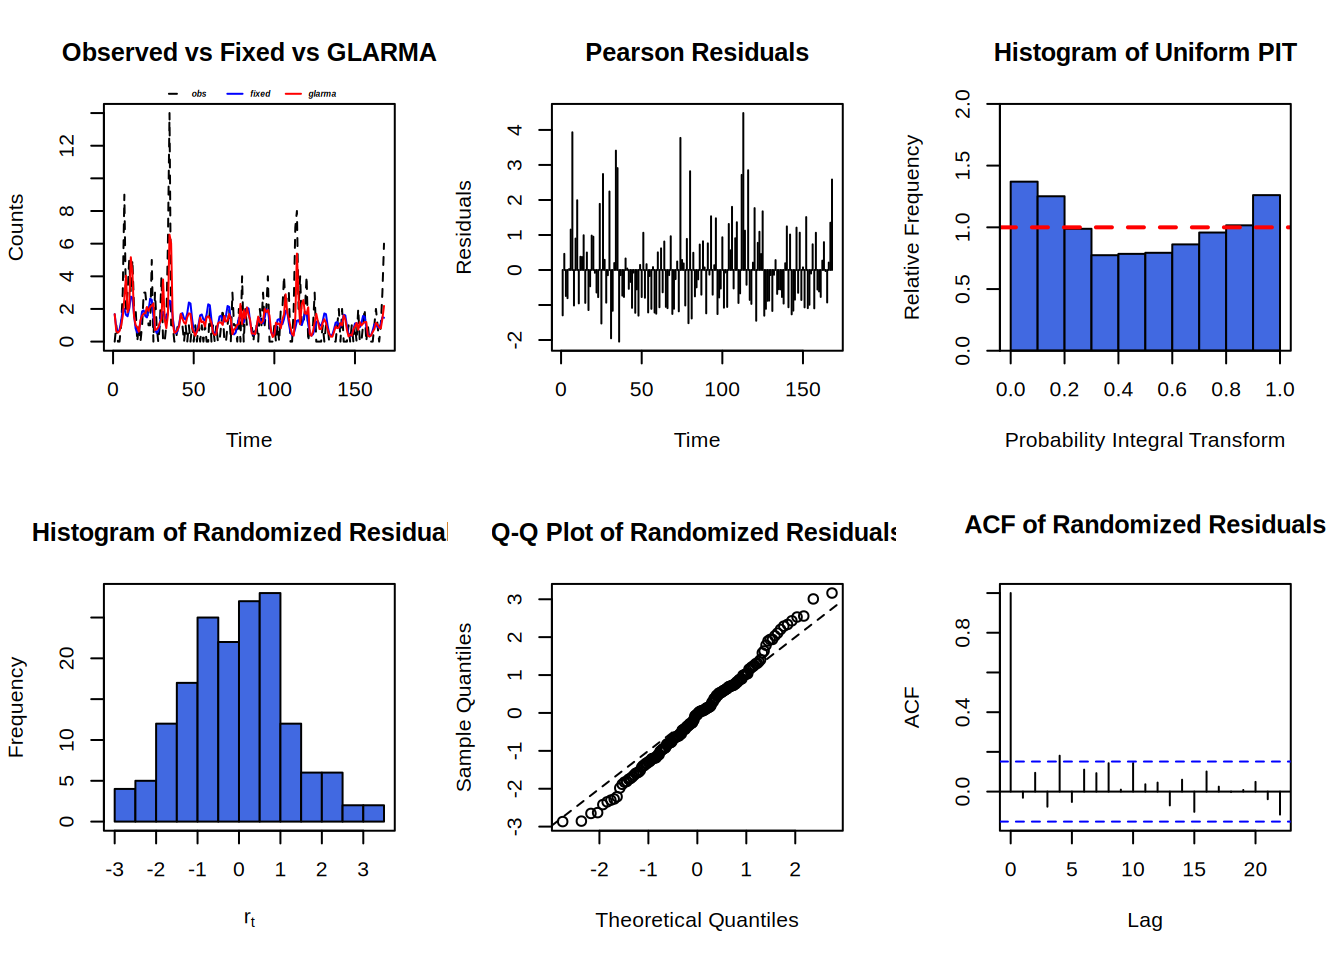
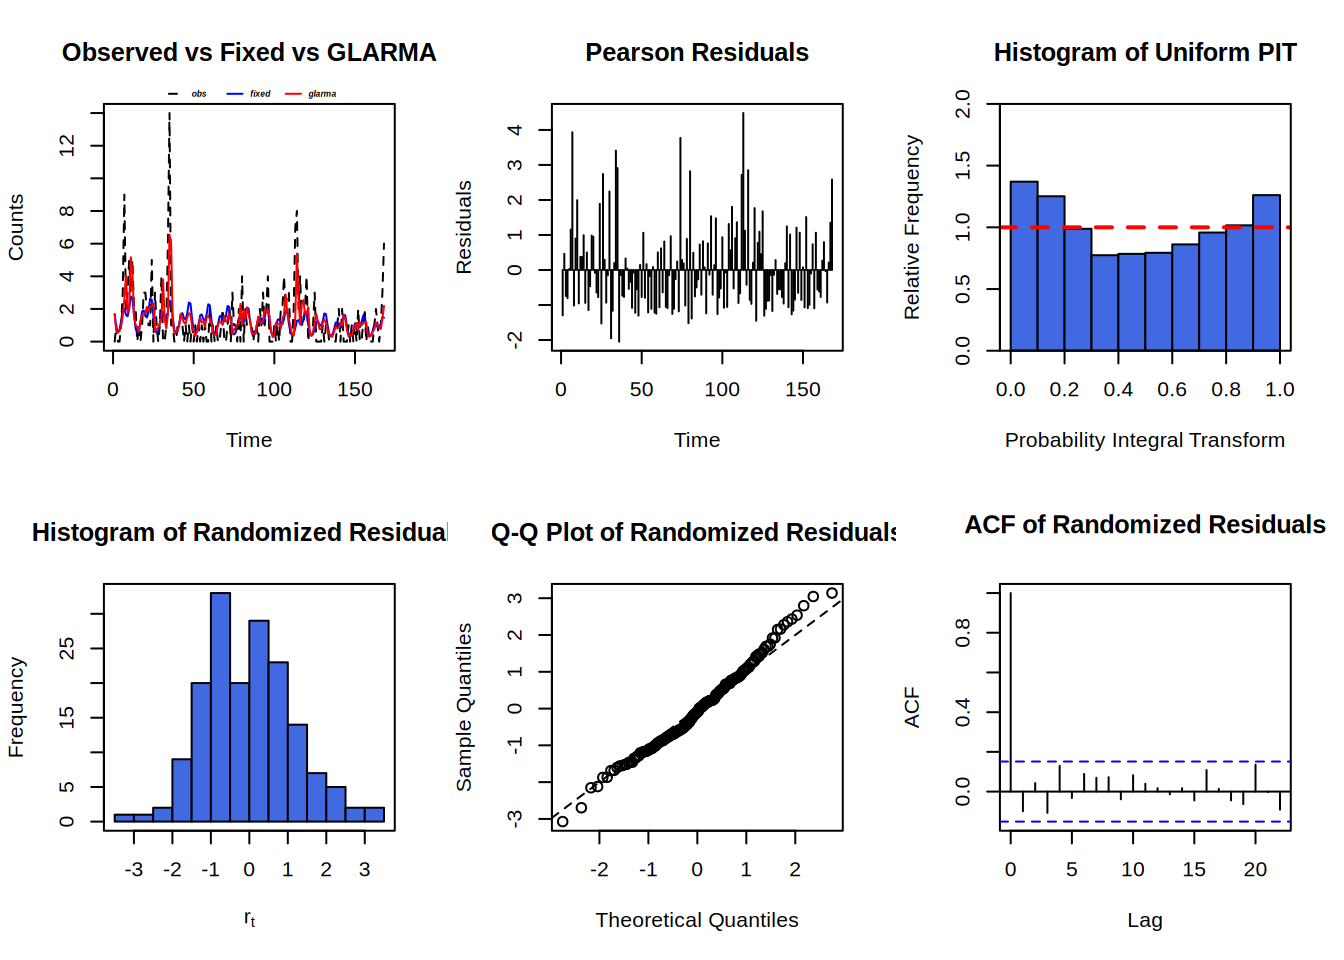
.

diff --git a/index.html b/index.html
@@ -540,8 +540,8 @@ Signif. codes:  0 '***' 0.001 '**' 0.01 '*' 0.05 '.' 0.1 ' ' 1</code></pre>
 <h3 class="anchored" data-anchor-id="acf-autocorrelação-e-pacf-autocorrelação-parcial-2">ACF (Autocorrelação) e PACF (Autocorrelação Parcial)</h3>
 <div class="cell">
 <div class="sourceCode cell-code" id="cb30"><pre class="sourceCode r code-with-copy"><code class="sourceCode r"><span id="cb30-1"><a href="#cb30-1" aria-hidden="true" tabindex="-1"></a><span class="fu">par</span>(<span class="at">mfrow =</span> <span class="fu">c</span>(<span class="dv">2</span>, <span class="dv">1</span>))</span>
-<span id="cb30-2"><a href="#cb30-2" aria-hidden="true" tabindex="-1"></a><span class="fu">acf</span>(glm_poi<span class="sc">$</span>residuals)</span>
-<span id="cb30-3"><a href="#cb30-3" aria-hidden="true" tabindex="-1"></a><span class="fu">pacf</span>(glm_poi<span class="sc">$</span>residuals)</span></code><button title="Copy to Clipboard" class="code-copy-button"><i class="bi"></i></button></pre></div>
+<span id="cb30-2"><a href="#cb30-2" aria-hidden="true" tabindex="-1"></a><span class="fu">acf</span>(glarma_poi<span class="sc">$</span>residuals)</span>
+<span id="cb30-3"><a href="#cb30-3" aria-hidden="true" tabindex="-1"></a><span class="fu">pacf</span>(glarma_poi<span class="sc">$</span>residuals)</span></code><button title="Copy to Clipboard" class="code-copy-button"><i class="bi"></i></button></pre></div>
 <div class="cell-output-display">
 <div>
 <figure class="figure">
